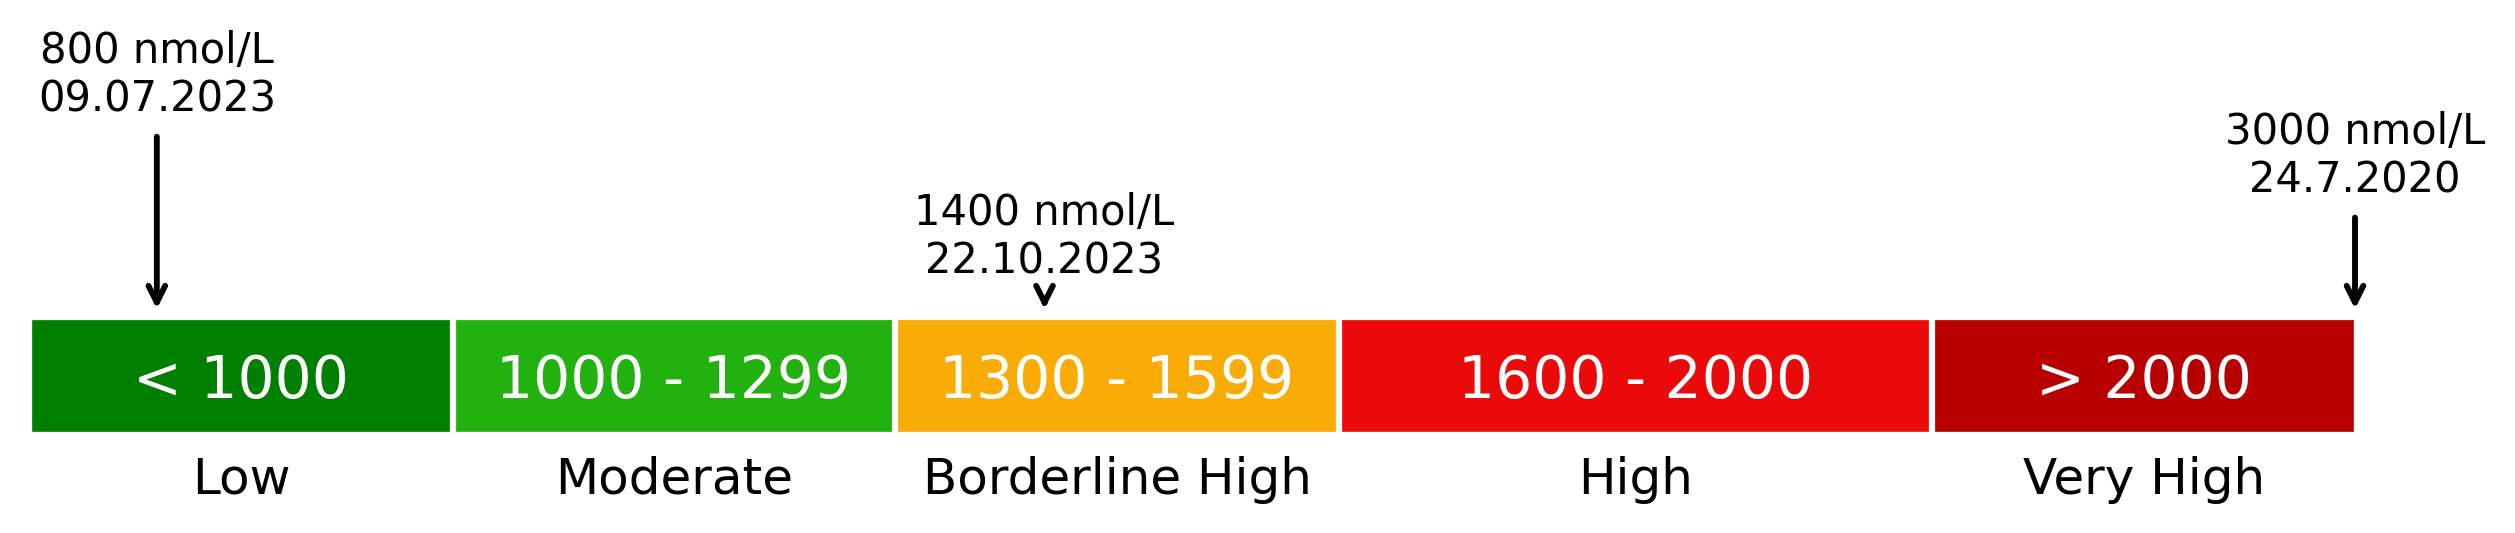
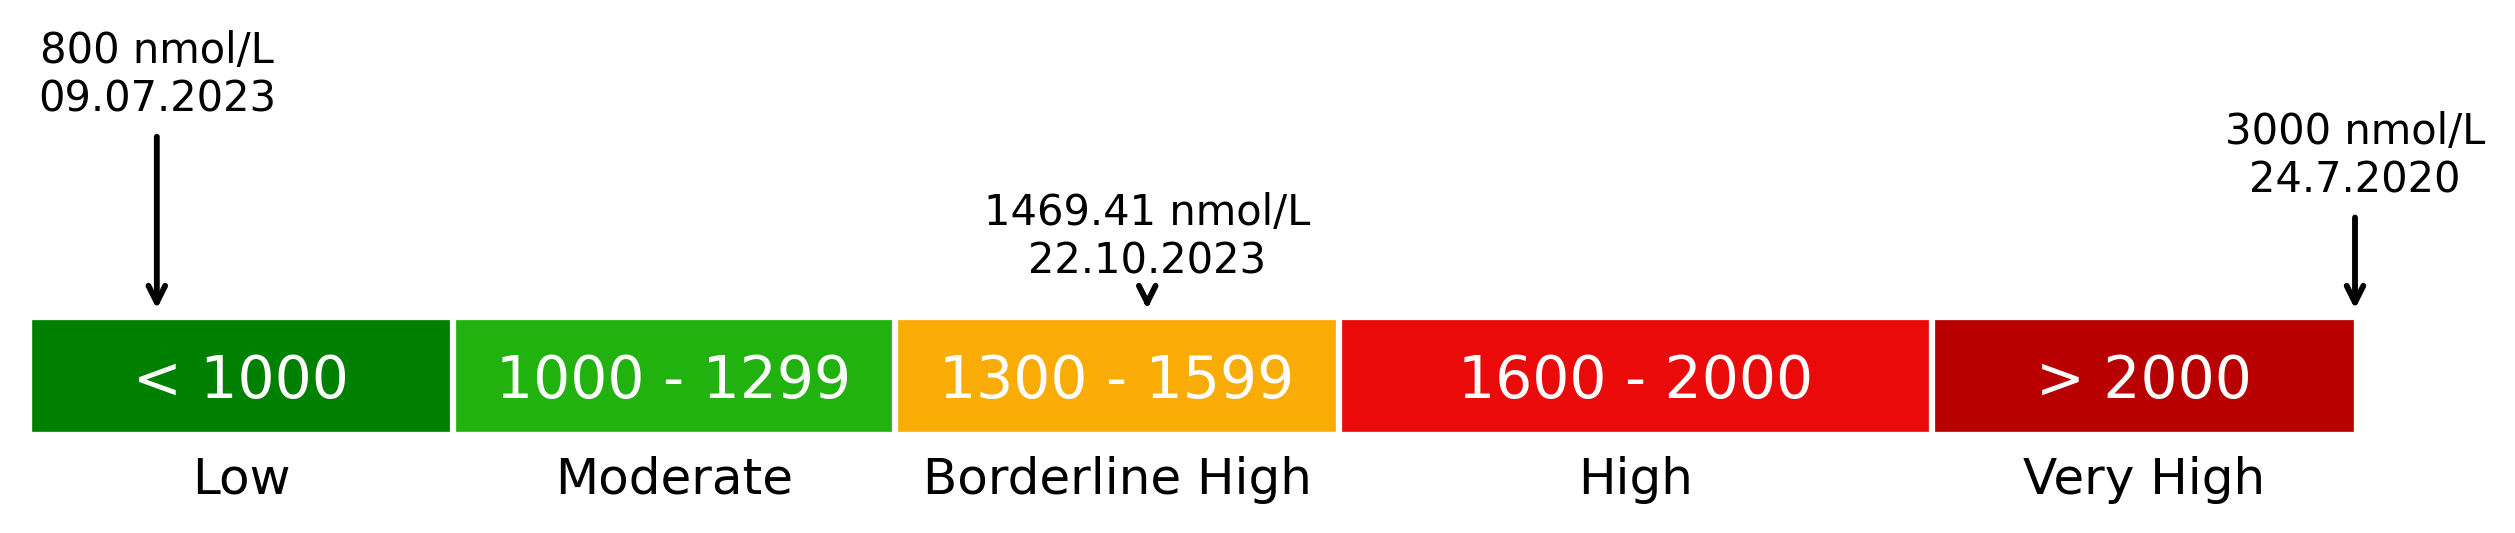
Convert Done

Changed region(s): [[0.3722, 0.4503, 0.4962, 0.5704], [0.3722, 0.3602, 0.5272, 0.4203]]

diff --git a/Update/periodic_assessments.py b/Update/periodic_assessments.py
@@ -1,0 +1,81 @@
+import numpy as np
+import matplotlib.pyplot as plt
+from save_plot import insert_plot as IP
+
+def periodic(df):
+    ex = df["LDPN [nmol/L]"] #current result
+
+    low = 1000
+    moderate = 1299
+    bhigh = 1599
+    high = 2000
+
+    constant = 2 * (abs(high - low)) / 7
+
+    axlow = low - constant
+    axhigh = high + constant
+
+    x = np.linspace(axlow, axhigh, 1000)
+    y = np.ones(1000)
+
+    fig, ax = plt.subplots(figsize=(10, 0.5))
+
+    ax.set_xlim(axlow, axhigh)
+    ax.set_ylim(0,1)
+    # Define colors for each range
+    colors = {'#008000': (axlow, low),
+            '#22B20F': (low, moderate),
+            '#F9AB06': (moderate, bhigh),
+            '#EA0A0A': (bhigh, high),
+            '#B80000': (high, axhigh)}
+
+    # Create rectangles with specified colors
+    for color, (start, end) in colors.items():
+        rect = plt.Rectangle((start, 0), end - start, 1, facecolor=color, alpha=1)
+        ax.add_patch(rect)
+
+    ax.plot(x, y, color='white')
+
+    ax.get_yaxis().set_visible(False)
+    ax.get_xaxis().set_visible(False)
+
+    prev = axlow
+    for title, limit in [["Low",low], ["Moderate",moderate], ["Borderline High",bhigh], ["High",high]]:
+        ax.axvline(x=limit, color='white', linestyle='-', linewidth=1.5)
+        if limit == low:
+            ax.text((prev + limit) / 2, +0.45, "< " + str(limit), ha='center', va='center', fontsize=14, color = "white")
+            ax.text((prev + limit) / 2, -0.4, title, ha='center', va='center', fontsize=12, color = "black")
+        elif limit == high:
+            ax.text((prev + limit) / 2, +0.45, str(prev + 1) + " - " + str(limit), ha='center', va='center', fontsize=14, color = "white")
+            ax.text((prev + limit) / 2, -0.4, title, ha='center', va='center', fontsize=12, color = "black")
+            ax.text((limit + axhigh) / 2, +0.45, "> " + str(limit), ha='center', va='center', fontsize=14, color = "white")
+            ax.text((limit + axhigh) / 2, -0.4, "Very High", ha='center', va='center', fontsize=12, color = "black")
+        else:
+            if prev == low:
+                ax.text((prev + limit) / 2, +0.45, str(prev) + " - " + str(limit), ha='center', va='center', fontsize=14, color = "white")
+                ax.text((prev + limit) / 2, -0.4, title, ha='center', va='center', fontsize=12, color = "black")
+            else:
+                ax.text((prev + limit) / 2, +0.45, str(prev + 1) + " - " + str(limit), ha='center', va='center', fontsize=14, color = "white")
+                ax.text((prev + limit) / 2, -0.4, title, ha='center', va='center', fontsize=12, color = "black")
+        prev = limit
+
+    # Patient results at different dates
+    dates = ["22.10.2023", "24.7.2020", "09.07.2023"]
+    results = [ex, 3000, 800]
+
+    count = 0
+    for date, result in zip(dates, results):
+        custom_value = max(axlow, min(result, axhigh))
+        linewidth = 2 if axlow < result < axhigh else 5
+
+        ax.annotate(str(result) + " nmol/L" + "\n" + date, xy=(custom_value, 1), xytext=(custom_value, 1.7 + count),
+                    ha='center', va='center', fontsize=10,
+                    arrowprops=dict(facecolor='black', arrowstyle="->",linewidth=1.4))
+        count += 0.7
+
+    ax.spines['bottom'].set_color('white')
+    ax.spines['top'].set_color('white') 
+    ax.spines['right'].set_color('white')
+    ax.spines['left'].set_color('white')
+
+    IP("timelyldlpn",plt)

diff --git a/Update/main_creation.py b/Update/main_creation.py
@@ -83,7 +83,6 @@ def conditional(df, dfdict):
     output.close()
 
 def calculated_LFLC(df):
-    #attribute = getattr(dd.TESTS(),"LFLC")
     db = dd.TESTS.LFLC
     cLFLC = round(df["LDFC [mg/dL]"]/df["LDCH [mg/dL]"],2)
 
@@ -96,3 +95,12 @@ def calculated_LFLC(df):
     IP(plot_file, fig)
 
     cbox(plot_file.replace(".png",""), cLFLC, "noref")
+
+def calculated_HFHC(df):
+    db = dd.TESTS.HFHC
+    cHFHC = round(df["HDFC [mg/dL]"]/df["HDCH [mg/dL]"],2)
+
+    if eval(f"{cHFHC} {db['Optimal']}"):
+        cbox("HFHC", cHFHC, False)
+    else:
+        cbox("HFHC", cHFHC, True)

diff --git a/Update/start.py b/Update/start.py
@@ -1,7 +1,7 @@
 import pandas as pd 
 import Subfractions
 import main_creation
-
+from periodic_assessments import periodic
 from NMRLipoprotein import NMRLipoprotein as NMR
 
 maindata = pd.read_csv("lipo_result_file_1.csv")
@@ -20,6 +20,8 @@ for i in range(0,len(maindata)):
 
     main_creation.conditional(df,dfdict)
     main_creation.calculated_LFLC(df)
+
+    periodic(df)
 
 
 
